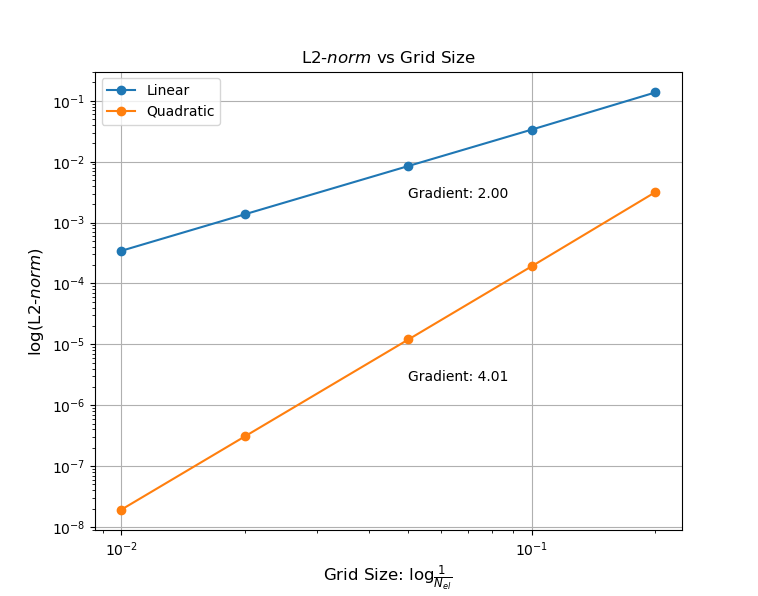
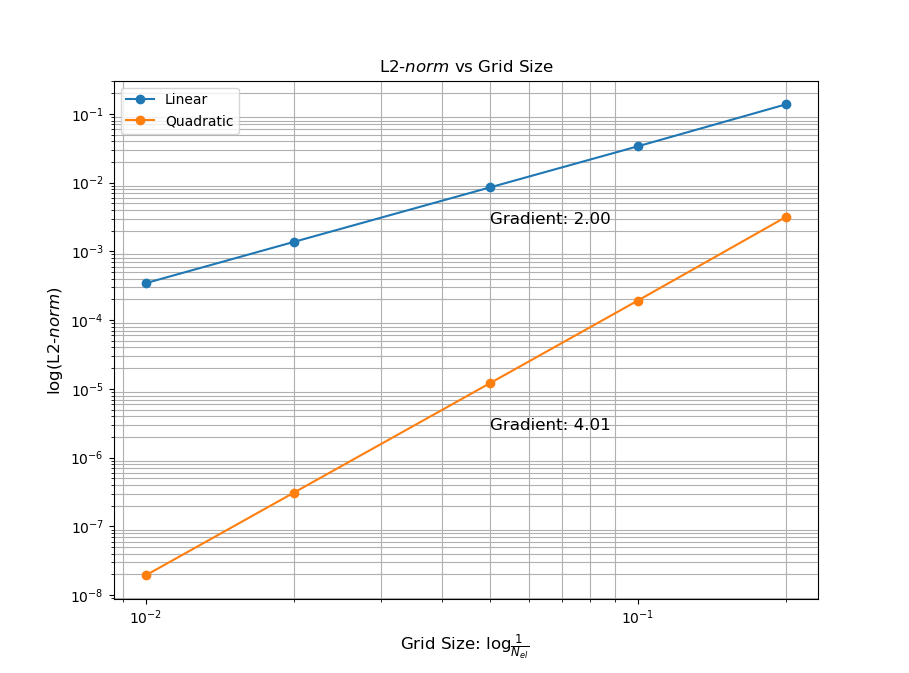
Added error distribution plots

Changed region(s): [[0.0303, 0.0906, 0.9103, 0.9362], [0.4248, 0.9362, 0.6069, 0.9966], [0.0607, 0.2718, 0.091, 0.302]]

diff --git a/class_helmholtz.py b/class_helmholtz.py
@@ -45,7 +45,7 @@ class Helmholtz:
         elif (p == 2):
             print("Quadratic Shape Functions Selected")
         else:
-            raise Exception("Invalid polynomial chose. Please select p=1, 2 for linea, quadratic shape functions")
+            raise Exception("Invalid polynomial chose. Please select p=1, 2 for linear, quadratic shape functions")
         self.p = p
         
         # Define Shape Functions
@@ -179,11 +179,11 @@ class Helmholtz:
         stiff[0,0] = large
         rhs[0] = large*self.alpha
         
-        # Solving for the homogenous Solution
+        # Solving with matrix inversion
         u = np.zeros(self.n_dof)
         u = np.linalg.inv(stiff)@rhs
         
-        # Solution by adding Dirchlet Condition
+        # Setup grid        
         x = np.linspace(0,1,self.n_dof)
    
         # Computing Exact Solution
@@ -198,7 +198,12 @@ class Helmholtz:
         l2 = math.sqrt(l2/(len(x)))
         print("L2 Norm: " + str(l2) + '\n')
         
+        # Computing error distribution
+        err = np.zeros(self.n_dof)
+        err = np.abs(u_ex-u)
+        
         self.l2 = l2
+        self.err = err
         self.x = x
         self.u = u
         self.u_ex = u_ex
@@ -305,14 +310,66 @@ class Helmholtz:
         plt.figure()
         plt.loglog(1/NN_el, lin_err, '-o', label = 'Linear')
         plt.loglog(1/NN_el, quad_err, '-o', label = 'Quadratic')
-        plt.text(0.05, 0.0025, "Gradient: " + str("{:.2f}".format(m_lin)))
-        plt.text(0.05, 0.0000025, "Gradient: " + str("{:.2f}".format(m_quad)))
+        plt.text(0.05, 0.0025, "Gradient: " + str("{:.2f}".format(m_lin)), fontsize = 12)
+        plt.text(0.05, 0.0000025, "Gradient: " + str("{:.2f}".format(m_quad)), fontsize = 12)
         plt.title("L2-$norm$ vs Grid Size")
         plt.legend()
         plt.xlabel('Grid Size: log' + r'$\frac{1}{N_{el}}$ ', fontsize = 12)
         plt.ylabel('log(L2-$norm$) ', fontsize = 12)
+        plt.grid(which='minor')
+        plt.show()
+        
+    def AltErrorAnalysis(self, N_el):
+            
+        # Initialising problem for both linear and quad
+        lin = Helmholtz(N_el,1)
+        quad = Helmholtz(N_el,2)
+        
+        # Initialising phi/dphi values at Gauss-Lobatto quadrature points
+        lin.init_gauss_lobatto()
+        quad.init_gauss_lobatto()
+
+        
+        # Building Elemental Mass, Laplacian and Source matrices/vectors
+        [MElem_L, LElem_L, FElem_L] = lin.ConstructElem()
+        [MElem_Q, LElem_Q, FElem_Q] = quad.ConstructElem()
+       
+        # Constructing Global Mass, Laplacian and Source matrices/vectors
+        [MG_L, LG_L, FG_L] = lin.ConstructGlob(MElem_L, LElem_L, FElem_L)
+        [MG_Q, LG_Q, FG_Q] = quad.ConstructGlob(MElem_Q, LElem_Q, FElem_Q)
+       
+        # Assemble Stiffness matrix and solving Ax = b
+        # Dirichlet B.Cs are solved using "Method of Large Number"
+        lin.Solve(MG_L, LG_L, FG_L)
+        quad.Solve(MG_Q, LG_Q, FG_Q)
+        
+        # Plotting Error distribution
+        plt.figure()
+        plt.plot(lin.x, lin.err, '-ob', label = 'Linear')
+        plt.plot(quad.x, quad.err, '-or', label = 'Quadratic')
+        plt.title("Error distribution, |$u_{exact}$ - $u_{fem}$|" + '\n'+ "$N_el$ = " + str(N_el), fontsize = 16)
+        plt.legend()
+        plt.xlabel('x', fontsize = 16)
+        plt.ylabel('|$u_{exact}$ - $u_{fem}$|', fontsize = 16)
         plt.grid()
         plt.show()
+        
+        # Plotting Error distribution
+        plt.figure()
+        plt.plot(quad.x, quad.u_ex, '--g', label = 'Exact', linewidth = '4.5')
+        plt.plot(lin.x, lin.u, '-ob', label = 'Linear', linewidth = '2')
+        plt.plot(quad.x, quad.u, '-or', label = 'Quadratic', linewidth = '2')
+        plt.title("Solution comparison between Linear/Quadratic" + '\n'+ "$N_el$ = " + str(N_el), fontsize = 16)
+        plt.legend()
+        plt.xlabel('x', fontsize = 16)
+        plt.ylabel('u', fontsize = 16)
+        plt.grid()
+        plt.show()
+            
+            
+        
+
+        
         
 
         

diff --git a/main.py b/main.py
@@ -11,7 +11,7 @@ from class_helmholtz import Helmholtz
 # Initialising Class with Helmholtz(N_el, p)
 # N_el -> No. of elements
 # P -> Polynomial order, p=1/2 for linear/quad
-case = Helmholtz(10, 1)
+case = Helmholtz(3, 2)
 
 # Initialising phi/dphi values at Gauss-Lobatto quadrature points
 case.init_gauss_lobatto()
@@ -30,3 +30,5 @@ case.Solve(MG, LG, FG)
 case.PlotOnce()
 
 case.ErrorAnalysis()
+
+case.AltErrorAnalysis(6)
